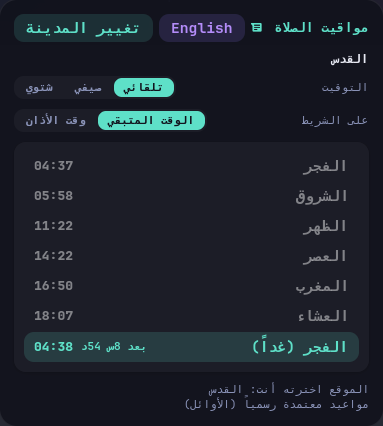
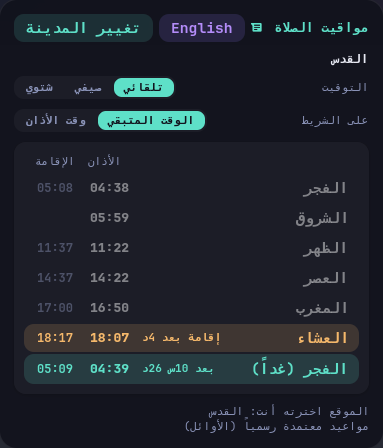
Prayer times: iqama times

diff --git a/style.css b/style.css
@@ -170,6 +170,11 @@ tooltip label {
 	background: @amber;
 }
 
+#custom-prayer.iqama {
+	color: @dark;
+	background: @teal;
+}
+
 #custom-prayer.offline {
 	color: @muted;
 	background: alpha(@muted, 0.12);

diff --git a/scripts/prayer_times.py b/scripts/prayer_times.py
@@ -15,7 +15,8 @@ so you can choose your city in the popup (click the chip), or edit ~/.config/pra
 
 Every key is optional. With latitude and longitude set, IP detection is off.
 "lang": "ar" shows everything in Arabic. "chip": "time" shows the adhan time on
-the bar instead of the time left. "dst": "summer" or "winter" forces the
+the bar instead of the time left. "iqama" sets the minutes from adhan to iqama,
+e.g. {"Fajr": 30, "Dhuhr": 15, "Asr": 15, "Maghrib": 10, "Isha": 10} (the default). "dst": "summer" or "winter" forces the
 time instead of following the system clock (the popup has buttons for both).
 "offsets" adds minutes to single prayers, to match your mosque or the Al-Awail app.
 Methods (as on al-awail.com): 0 Karachi, 1 ISNA, 2 Muslim World League,
@@ -73,6 +74,7 @@ TEXT = {
         "location": "Location {}: {}", "time": "Time",
         "dst": {"auto": "Auto", "summer": "Summer", "winter": "Winter"},
         "lang_btn": "عربي",
+        "adhan": "Adhan", "iqama": "Iqama", "iqama_of": "Iqama {}",
         "show": "On the bar", "show_opts": {"left": "Time left", "time": "Prayer time"},
         "countries": {"PS": "Palestine"},
         "src": {"approved": "Officially approved times (Al-Awail)",
@@ -103,6 +105,7 @@ TEXT = {
         "location": "الموقع {}: {}", "time": "التوقيت",
         "dst": {"auto": "تلقائي", "summer": "صيفي", "winter": "شتوي"},
         "lang_btn": "English",
+        "adhan": "الأذان", "iqama": "الإقامة", "iqama_of": "إقامة {}",
         "show": "على الشريط", "show_opts": {"left": "الوقت المتبقي", "time": "وقت الأذان"},
         "countries": {"PS": "فلسطين", "TR": "تركيا"},   # TR: iso-codes renamed it, the translation lags
         "src": {"approved": "مواعيد معتمدة رسمياً (الأوائل)",
@@ -338,6 +341,36 @@ def offsets():
         except (TypeError, ValueError):
             pass
     return out
+
+
+# minutes from the adhan to the iqama; "iqama" in the config changes single prayers
+IQAMA = {"Fajr": 30, "Dhuhr": 15, "Asr": 15, "Maghrib": 10, "Isha": 10}
+
+
+def iqama_minutes():
+    raw = (read_json(CONFIG, {}) or {}).get("iqama", {})
+    out = dict(IQAMA)
+    for name in IQAMA:
+        try:
+            out[name] = int(raw.get(name, out[name]))
+        except (TypeError, ValueError):
+            pass
+    return out
+
+
+def iqama_time(name, adhan):
+    """When the iqama is for a prayer (None for sunrise)."""
+    mins = iqama_minutes().get(name)
+    return adhan + timedelta(minutes=mins) if mins is not None else None
+
+
+def waiting_iqama(today, now):
+    """(name, iqama time) when the adhan has been called and the iqama hasn't, else None."""
+    for name, t in today:
+        iq = iqama_time(name, t)
+        if iq and t <= now < iq:
+            return name, iq
+    return None
 
 
 def year_file(loc, year):
@@ -632,17 +665,24 @@ def chip(force=False):
         nxt = next(((n, t) for n, t in tomorrow if n == "Fajr"), None)
         day_times(loc, now.date(), tz)      # SOURCE describes today again
 
+    wait = waiting_iqama(today, now)
     width = max(len(pname(n)) for n in NAMES) + 1
-    lines = [f"<b>{ICON}  {tr('title')} · {place_text(loc)}</b>", ""]
+    lines = [f"<b>{ICON}  {tr('title')} · {place_text(loc)}</b>", "",
+             f"<tt><span foreground='#8a93b8'>{'':<{width}} {tr('adhan'):<6} {tr('iqama')}</span></tt>"]
     for name, t in today:
-        row = f"{pname(name):<{width}} {t:%H:%M}"
-        if nxt and (name, t) == nxt:
+        iq = iqama_time(name, t)
+        row = f"{pname(name):<{width}} {t:%H:%M}  {f'{iq:%H:%M}' if iq else '':<5}"
+        if wait and name == wait[0]:
+            row = (f"<span foreground='#f5b86b'><b>{row}  ← "
+                   f"{tr('iqama_of').format('')}{tr('in').format(fmt_left(wait[1] - now))}</b></span>")
+        elif nxt and (name, t) == nxt:
             row = f"<span foreground='#7ee0a1'><b>{row}  ← {tr('in').format(fmt_left(nxt[1] - now))}</b></span>"
-        elif t <= now:
+        elif (iq or t) <= now:
             row = f"<span foreground='#8a93b8'>{row}</span>"
         lines.append(f"<tt>{row}</tt>")
     if nxt and nxt[1].date() != now.date():
-        lines.append(f"<tt><span foreground='#7ee0a1'><b>{pname('Fajr'):<{width}} {nxt[1]:%H:%M}  ← "
+        iq = iqama_time("Fajr", nxt[1])
+        lines.append(f"<tt><span foreground='#7ee0a1'><b>{pname('Fajr'):<{width}} {nxt[1]:%H:%M}  {iq:%H:%M}  ← "
                      f"{tr('tomorrow_in').format(fmt_left(nxt[1] - now))}</b></span></tt>")
     how = tr("loc_config") if loc.get("source") == "config" else tr("loc_ip")
     origin = origin_text() if SOURCE == "approved" else f"{origin_text()}\n{method_text()}"
@@ -652,6 +692,11 @@ def chip(force=False):
 
     if not nxt:
         return {"text": ICON, "tooltip": "\n".join(lines), "class": "offline"}
+    if wait:   # between the adhan and the iqama: count down to the iqama
+        label = tr("iqama_of").format(pname(wait[0]))
+        when = f"{wait[1]:%H:%M}" if chip_mode() == "time" else tr("in").format(fmt_left(wait[1] - now))
+        return {"text": f"{ICON} {label} {when}", "tooltip": "\n".join(lines), "class": "iqama",
+                "alt": wait[0]}
     left = nxt[1] - now
     cls = "soon" if left <= timedelta(minutes=SOON) else "normal"
     if chip_mode() == "time":

diff --git a/scripts/prayer_popup.py b/scripts/prayer_popup.py
@@ -1,6 +1,6 @@
 #!/usr/bin/env python3
 # Prayer times popup for the Modern Islands waybar, opened by clicking the prayer chip.
-# Shows today's times (from al-awail.com, see prayer_times.py), and has:
+# Shows today's adhan and iqama times (from al-awail.com, see prayer_times.py), and has:
 #   - "Change city": type a city in Arabic or English and pick it from the list
 #   - Auto / Summer / Winter: follow the system clock or force summer or winter time
 #   - Time left / Prayer time: what the chip shows next to the prayer name
@@ -34,6 +34,11 @@ CSS = """
 .next { background: rgba(94, 224, 200, 0.16); }
 .next .pname, .next .ptime { color: #5ee0c8; }
 .left { color: #5ee0c8; font-size: 11px; font-weight: 700; }
+.iqtime { color: #8a93b8; font-weight: 700; font-size: 12px; }
+.phead { padding: 0 10px; }
+.wait { background: rgba(245, 184, 107, 0.16); }
+.wait .pname, .wait .ptime, .wait .iqtime, .wait .left { color: #f5b86b; }
+.next .iqtime { color: #5ee0c8; }
 .teal-btn { background: rgba(94, 224, 200, 0.14); color: #5ee0c8; }
 .teal-btn:hover { background: #5ee0c8; color: #11121c; }
 .seg { background: rgba(255, 255, 255, 0.04); border-radius: 10px; padding: 2px; }
@@ -162,14 +167,18 @@ class PrayerPopup(pb.PopupWindow):
         else:
             upcoming = [(n, t) for n, t in today if n in pt.PRAYERS and t > now]
             nxt = upcoming[0] if upcoming else None
+            wait = pt.waiting_iqama(today, now)
+            self.times.append(self.header_row())
             for name, t in today:
-                self.times.append(self.time_row(pt.pname(name), t, now, (name, t) == nxt))
+                state = ("wait" if wait and name == wait[0] else
+                         "next" if (name, t) == nxt else None)
+                self.times.append(self.time_row(pt.pname(name), t, pt.iqama_time(name, t), now, state))
             if not nxt:
                 tomorrow = pt.day_times(loc, now.date() + timedelta(days=1), tz) or []
                 fajr = next(((n, t) for n, t in tomorrow if n == "Fajr"), None)
                 if fajr:
-                    self.times.append(self.time_row(T("tomorrow").format(pt.pname("Fajr")),
-                                                    fajr[1], now, True))
+                    self.times.append(self.time_row(T("tomorrow").format(pt.pname("Fajr")), fajr[1],
+                                                    pt.iqama_time("Fajr", fajr[1]), now, "next"))
         pt.SOURCE = source
         how = T("loc_config") if loc.get("source") == "config" else T("loc_ip")
         origin = pt.origin_text() if source == "approved" else f"{pt.origin_text()}\n{pt.method_text()}"
@@ -182,16 +191,30 @@ class PrayerPopup(pb.PopupWindow):
                 self.city.append(pb.label("-", "city"))
             self.city.append(pb.label(part, "city"))
 
-    def time_row(self, name, t, now, is_next):
+    def header_row(self):
+        row = Gtk.Box(spacing=8)
+        row.add_css_class("phead")
+        row.append(pb.label("", hexpand=True))
+        row.append(pb.label(pt.tr("adhan"), "muted", width_chars=6))
+        row.append(pb.label(pt.tr("iqama"), "muted", width_chars=6))
+        return row
+
+    def time_row(self, name, t, iq, now, state):
+        """state: "next" (next adhan), "wait" (adhan called, iqama not yet) or None."""
         row = Gtk.Box(spacing=8)
         row.add_css_class("prow")
         row.append(pb.label(name, "pname", xalign=0, hexpand=True))
-        if is_next:
+        if state == "next":
             row.add_css_class("next")
             row.append(pb.label(pt.tr("in").format(pt.fmt_left(t - now)), "left"))
-        elif t <= now:
+        elif state == "wait":
+            row.add_css_class("wait")
+            row.append(pb.label(pt.tr("iqama_of").format("") + pt.tr("in").format(pt.fmt_left(iq - now)),
+                                "left"))
+        elif (iq or t) <= now:
             row.add_css_class("past")
-        row.append(pb.label(f"{t:%H:%M}", "ptime"))
+        row.append(pb.label(f"{t:%H:%M}", "ptime", width_chars=6))
+        row.append(pb.label(f"{iq:%H:%M}" if iq else "", "iqtime", width_chars=6))
         return row
 
     # ----- settings -----

diff --git a/README.md b/README.md
@@ -43,9 +43,9 @@ A colorful, glassy [Waybar](https://github.com/Alexays/Waybar) setup for Hyprlan
   <img src="screenshots/prayer-ar.png" width="340" alt="Prayer times popup in Arabic">
 </p>
 
-**The chip** shows the next prayer and how long is left, for example `Asr in 1h 12m` (in Arabic `العصر بعد 1س 12د`), or the adhan time instead, for example `Asr 14:22`. In the last 15 minutes it turns amber. Hover over it to see all of today's times, click it to open the prayer popup, and right-click to refresh.
+**The chip** shows the next prayer and how long is left, for example `Asr in 1h 12m` (in Arabic `العصر بعد 1س 12د`), or the adhan time instead, for example `Asr 14:22`. In the last 15 minutes it turns amber. After the adhan, until the iqama, it turns teal and counts down to the iqama instead, for example `Iqama Asr in 8m` (in Arabic `إقامة العصر بعد 8د`). Hover over it to see all of today's times, click it to open the prayer popup, and right-click to refresh.
 
-**The popup** shows your place as *City - Country* (for example `Amman - Jordan`), and today's times: prayers that have passed are dimmed, and the next one is highlighted with a countdown. The last lines show how the place was chosen, the place again, and where the times come from. Changes to the settings below show up at once, in the popup and on the bar, without closing the popup. It also has:
+**The popup** shows your place as *City - Country* (for example `Amman - Jordan`), and today's adhan and iqama times: prayers that have passed are dimmed, the next adhan is highlighted with a countdown, and between an adhan and its iqama that prayer is highlighted in amber with a countdown to the iqama. By default the iqama is 30 minutes after the adhan for Fajr, 15 for Dhuhr and Asr, and 10 for Maghrib and Isha (see `iqama` below). The last lines show how the place was chosen, the place again, and where the times come from. Changes to the settings below show up at once, in the popup and on the bar, without closing the popup. It also has:
 
 - **Change city:** type the name of your city in Arabic or English and pick it from the list (places are searched on [OpenStreetMap](https://nominatim.openstreetmap.org)). The Arabic and English names of the city are both saved, so the city and the country are always shown in the same language. Cities with officially approved times are listed first and marked **approved times**. The times download right away. **Automatic** under the search goes back to finding your location from your IP address.
 - **Auto / Summer / Winter:** *Auto* follows your system clock, so the times move by an hour when the clocks change. *Summer* and *Winter* force one or the other, like the buttons on the Al-Awail website. This helps when your clock and your local summer time don't change on the same day.
@@ -75,6 +75,7 @@ The popup saves its settings in `~/.config/prayer-times.json`. You can also edit
 ```json
 {"city": "Nablus", "latitude": 32.2211, "longitude": 35.2544,
  "lang": "ar", "chip": "left", "dst": "auto", "method": 2, "hanafi": false,
+ "iqama": {"Fajr": 30, "Dhuhr": 15, "Asr": 15, "Maghrib": 10, "Isha": 10},
  "offsets": {"Fajr": -2, "Isha": 3}}
 ```
 
@@ -87,6 +88,7 @@ The popup saves its settings in `~/.config/prayer-times.json`. You can also edit
 | `dst` | `"auto"`, `"summer"` or `"winter"` |
 | `method` | calculator method: `0` Karachi, `1` ISNA, `2` Muslim World League (default), `3` Umm al-Qura, `4` Egyptian, `5` Diyanet |
 | `hanafi` | `true` uses the Hanafi Asr time |
+| `iqama` | minutes from the adhan to the iqama, per prayer (the values above are the default) |
 | `offsets` | minutes added to single prayers, to match your mosque exactly |
 
 From a terminal: `scripts/prayer_times.py show` prints today's times, `refresh` downloads again, and `lang` switches the language.
